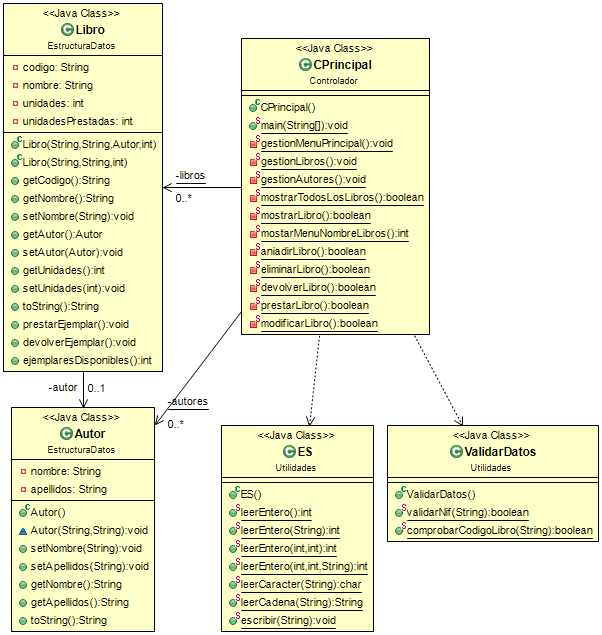
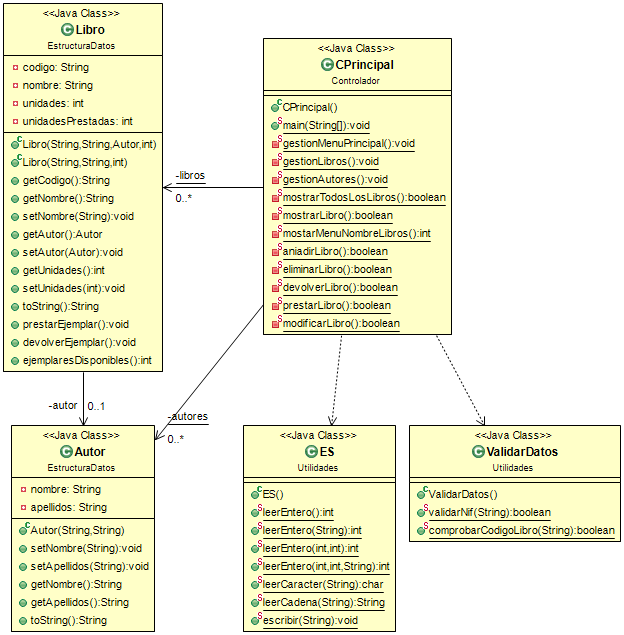
feat: implementación de la clase principal

diff --git a/src/Controlador/CPrincipal.java b/src/Controlador/CPrincipal.java
@@ -122,7 +122,16 @@ public class CPrincipal {
      * @return devuelve true si hay algún libro almacenado en el array y false en caso contrario.
      */
     private static boolean mostrarTodosLosLibros(){
+        if(libros[0] == null)
+            return false;
         
+        for(int i = 0; i < libros.length; i++){
+            if(libros[i] != null)
+                System.out.println(libros[i].toString());
+            else
+                break;
+        }
+        return true;        
     }
     
     /**
@@ -130,7 +139,15 @@ public class CPrincipal {
      * @return devuelve true si hay algún libro almacenado en el array y false en caso contrario.
      */
     private static boolean mostrarLibro(){
+        int numeroLibros = mostarMenuNombreLibros();
+        if(numeroLibros == 0)
+            return false;
         
+        int opcion = ES.leerEntero(1, numeroLibros, "0. Salir.\n Elija una opción: ");
+        
+        System.out.println(libros[opcion-1].toString());
+        
+        return true;
     }
     
     /**
@@ -138,7 +155,13 @@ public class CPrincipal {
      * @return Devuelve el número de registros que ha sido capaz de mostrar.
      */
     private static int mostarMenuNombreLibros(){
-        
+        for(int i = 0; i < libros.length; i++){
+            if(libros[i] != null)
+                System.out.println((i+1) + ". " + libros[i].getNombre());
+            else
+                return i;
+        }
+        return libros.length;
     }
     
     /**
@@ -146,7 +169,21 @@ public class CPrincipal {
      * @return devuelve false si el array no tiene más capacidad para almacenar libros.
      */
     private static boolean aniadirLibro(){
-        
+        for(int i = 0; i < libros.length; i++){
+            if(libros[i] == null){
+                String codigo;
+                do{
+                    codigo = ES.leerCadena("Introduzca el código del libro (recuerde que debe de estar formado por 3 letras seguidas de 2 números): ");
+                    codigo = codigo.toUpperCase();
+                    if(!Utilidades.ValidarDatos.comprobarCodigoLibro(codigo))
+                        System.err.println("Error. El código introducido no es válido");
+                }while(!Utilidades.ValidarDatos.comprobarCodigoLibro(codigo));
+                
+                libros[i] = new Libro(codigo, ES.leerCadena("Introduzca el nombre del libro: "), ES.leerEntero("Introduzca el número de ejemplares que hay del libro: "));
+                return true;       
+            }
+        }
+        return false;
     }
     
     /**
@@ -154,7 +191,20 @@ public class CPrincipal {
      * @return devuelve true si se ha podido realizar el borrado y false si no hay registros almacenados.
      */
     private static boolean eliminarLibro(){
+        int numeroLibros = mostarMenuNombreLibros();
+        if(numeroLibros == 0)
+            return false;
         
+        int opcion = ES.leerEntero(0, numeroLibros, "0. Salir.\n Elija una opción: ");
+        
+        for(; opcion < libros.length; opcion++){            
+            libros[opcion-1] = libros[opcion];
+            
+            if (libros[opcion] == null)
+                return true;
+        }
+        libros[libros.length-1] = null;
+        return true;
     }
     
     /**
@@ -162,7 +212,14 @@ public class CPrincipal {
      * @return devuelve true si se ha podido realizar la devolución y false si no hay registros almacenados.
      */
     private static boolean devolverLibro(){
+        int numeroLibros = mostarMenuNombreLibros();
+        if(numeroLibros == 0)
+            return false;
         
+        int opcion = ES.leerEntero(0, numeroLibros, "0. Salir.\n Elija una opción: ");
+        
+        libros[opcion-1].devolverEjemplar();        
+        return true;
     }
     
     /**
@@ -170,7 +227,14 @@ public class CPrincipal {
      * @return devuelve true si se ha podido realizar el préstamo y false si no hay registros almacenados.
      */
     private static boolean prestarLibro(){
+        int numeroLibros = mostarMenuNombreLibros();
+        if(numeroLibros == 0)
+            return false;
         
+        int opcion = ES.leerEntero(0, numeroLibros, "0. Salir.\n Elija una opción: ");
+        
+        libros[opcion-1].prestarEjemplar();        
+        return true;
     }
     
     /**
@@ -178,6 +242,31 @@ public class CPrincipal {
      * @return devuelve true si se ha podido realizar la devolución y false si no hay registros almacenados.
      */
     private static boolean modificarLibro(){
+        int parametroModificar, numeroLibros = mostarMenuNombreLibros();
+        if(numeroLibros == 0)
+            return false;
         
+        int opcion = ES.leerEntero(0, numeroLibros, "0. Salir.\n Elija una opción: ");
+        
+        do{
+            parametroModificar = ES.leerEntero(opcion, opcion, "¿Qué parámetro quiere modificar?\n"
+                    + "1. Nombre.\n"
+                    + "2. Unidades.\n"
+                    + "0. Salir.\n"
+                    + "Elija una opción: ");
+            switch(parametroModificar){
+                case 0:
+                    System.out.println("Volviendo al menú de libros...");
+                    break;
+                case 1:
+                    libros[opcion - 1].setNombre(ES.leerCadena("Introduzca el nuevo nombre: "));
+                    break;
+                case 2:
+                    libros[opcion - 1].setUnidades(ES.leerEntero("Introduzca el número de unidades que hay del libro: "));
+                    break;
+            }
+        }while(parametroModificar != 0);
+        
+        return true;
     }
 }

diff --git a/src/EstructuraDatos/Autor.java b/src/EstructuraDatos/Autor.java
@@ -14,7 +14,7 @@ public class Autor {
      * @param nombre cadena de caracteres con el nombre. Debe ser mayor a 0.
      * @param apellidos cadena de caracteres con los apellidos. Debe ser mayor a 0.
      */
-    void Autor (String nombre, String apellidos)
+    public Autor (String nombre, String apellidos)
     {
         if(nombre.length() > 0)
             this.nombre = nombre;
